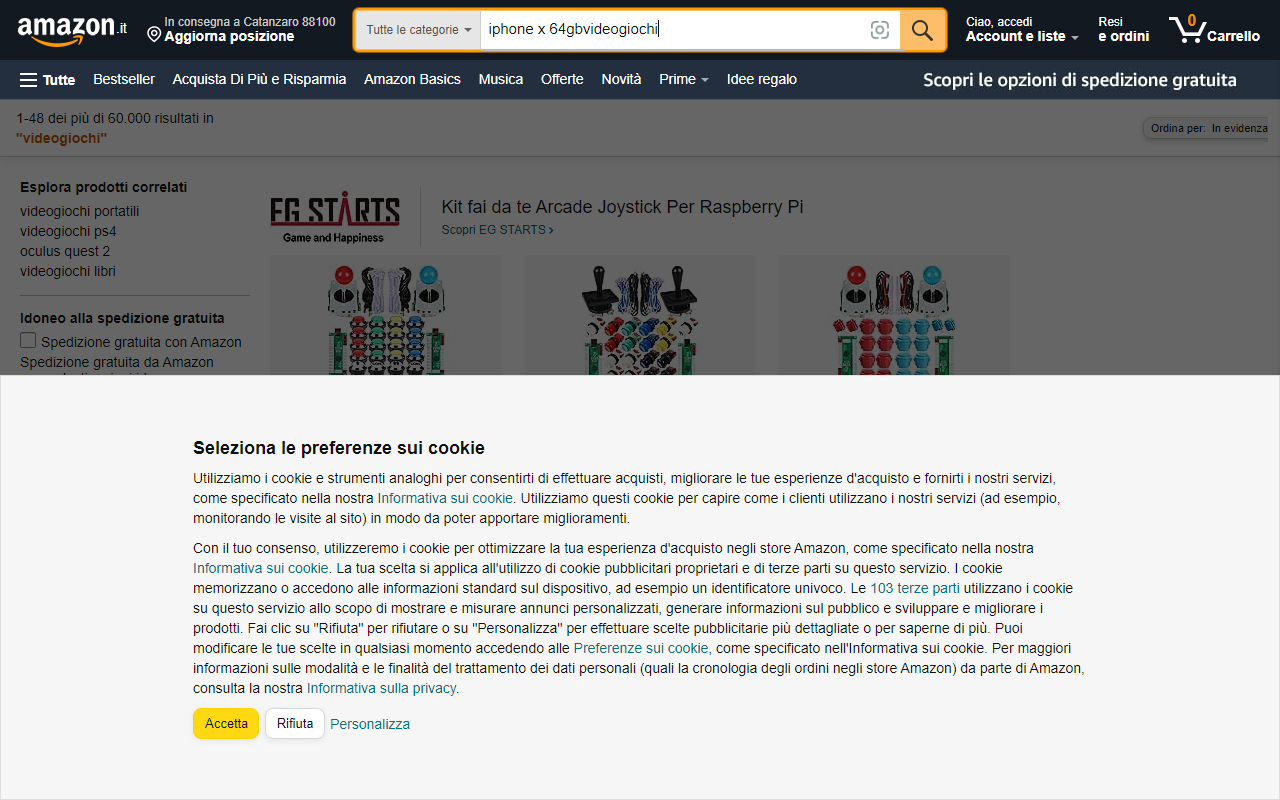
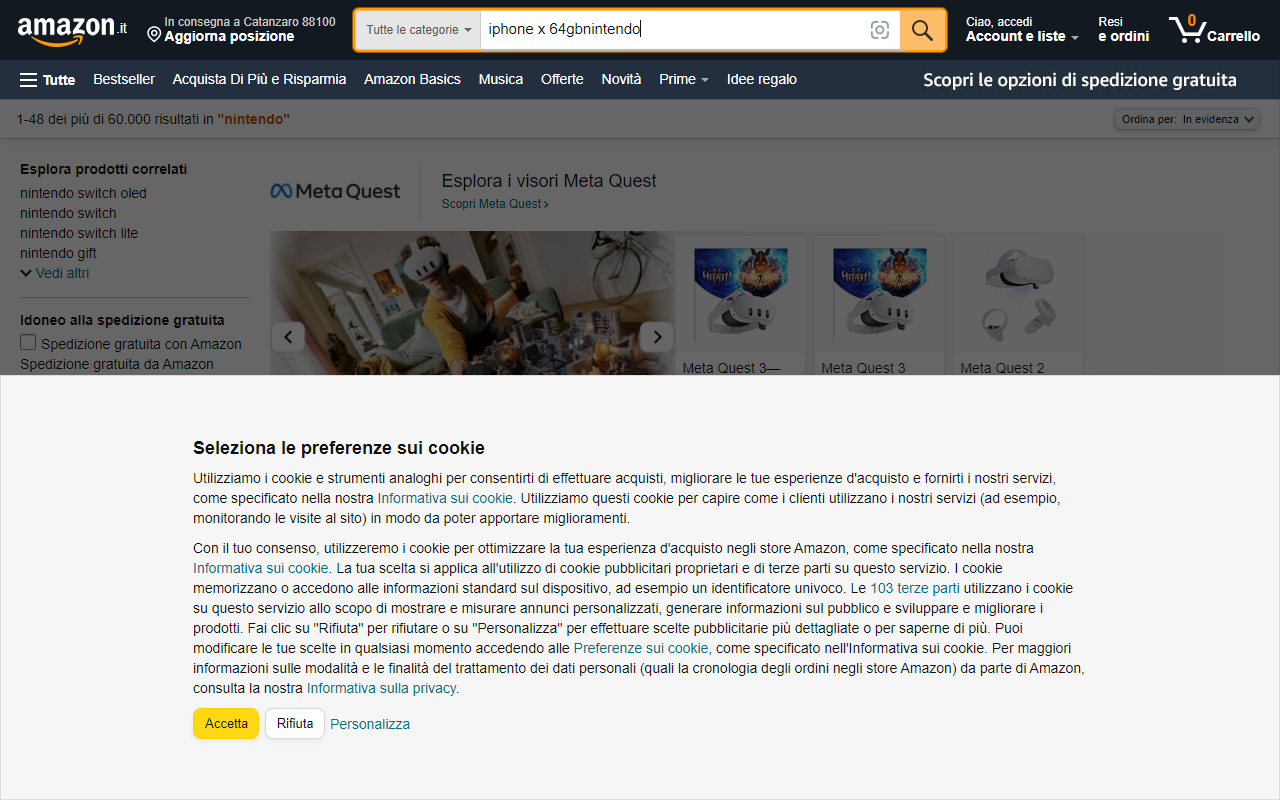
update

diff --git a/amazon.js b/amazon.js
@@ -1,11 +1,6 @@
 const puppeteer = require("puppeteer");
-const express = require("express");
 const WebSocket = require("ws");
 const wsPort = 8004;
-const unirest = require("unirest");
-const cheerio = require("cheerio");
-
-let shouldRun = true;
 
 const wss = new WebSocket.Server({ port: wsPort });
 wss.on("connection", (ws) => {
@@ -19,11 +14,10 @@ wss.on("connection", (ws) => {
   };
 });
 
-async function startScrape(typeSearch, mode, userId, password) {
+async function startScrape(typeSearch, mode, key) {
   // Lancio il browser false=vedo l'anteprima, "new"= stealth;
   const browser = await puppeteer.launch({ headless: mode });
   const page = await browser.newPage();
-  const fs = require("fs");
 
   // A seconda della ricerca apro o meno l'emulazione iPhone X;
   if (typeSearch == "desktop") {
@@ -48,99 +42,68 @@ async function startScrape(typeSearch, mode, userId, password) {
   console.log("Amazon.it scraping By Davide Balice.");
   console.log(" ");
   console.log(" ");
-  if (typeSearch == "desktop") {
-    console.log("login dektop started, wait...");
-  } else {
-    console.log("login mobile started, wait...");
-  }
-
-  // Vado alla pagina di Login;
-  
 
   // Avviso che siamo pronti a partire con la ricerca;
   console.clear();
-  console.log(" ");
-
-  if (typeSearch == "desktop") {
-    console.log("inzio ricerca desktop, attendere...");
-  } else {
-    console.log("inzio ricerca mobile, attendere...");
-  }
 
   page.setDefaultNavigationTimeout(2 * 60 * 1000);
 
-const key = "videogiochi";
-
-
-    // navigate to a website and set the viewport
-    await page.setViewport({ width: 1280, height: 800 });
-    await page.goto(`https://www.amazon.it/s?k=${key}&__mk_it_IT=%C3%85M%C3%85%C5%BD%C3%95%C3%91&crid=L8FRLM64UZ0S&sprefix=${key}%2Caps%2C125&ref=nb_sb_noss_1`, {
-      timeout: 3000000
-    });
-
-    // search and wait the product list
-    await page.type('#twotabsearchtextbox', 'iphone x 64gb');
-    await page.click('input.nav-input');
-    await page.waitForSelector('.s-result-item');
-
-    // create a screenshots
-    await page.screenshot({path: 'search-iphone-x.png'});
-
-    const products = await page.evaluate(() => {
-      const links = Array.from(document.querySelectorAll('.s-result-item'));
-      return links
-        .map(link => {
-          const nameElement = link.querySelector('.a-size-base-plus.a-color-base.a-text-normal');
-          const priceElement = link.querySelector('.a-price-whole');
-          const imageElement = link.querySelector('.s-image');
-    
-          if (nameElement && priceElement && imageElement) {
-            return {
-              name: nameElement.textContent.trim(),
-              url: link.querySelector('.a-link-normal.a-text-normal').href,
-              image: imageElement.src,
-              price: parseFloat(priceElement.textContent.replace(/[,.]/g, m => (m === ',' ? '.' : ''))),
-            };
-          } else {
-            return null;
-          }
-        })
-        .filter(product => product !== null)
-        .slice(0, 20);
-    });
-    
-
-    await products.forEach(product => {
-      console.log(`<div style='display:flex;border:1px solid #ddd;padding:10px;gap:10px;align:items:center'><img src='${product.image}' width='100'></div>`);
-      console.log("Name:", product.name);
-      console.log("URL:", product.url);
-      console.log(`<img src='${product.image}' width='200'>`);
-      console.log("Price:", product.price);
-      console.log("</div>");
-      console.log("-----------------------");
-    });
-/*
-    console.log(products.sort((a, b) => {
-      return a.price - b.price;
-    }));
-*/
-    // close the browser
-    await browser.close();
-
-
-
-
-  const htmlContent = await page.evaluate(
-    () => document.documentElement.outerHTML
+  // navigate to a website and set the viewport
+  await page.setViewport({ width: 1280, height: 800 });
+  await page.goto(
+    `https://www.amazon.it/s?k=${key}&__mk_it_IT=%C3%85M%C3%85%C5%BD%C3%95%C3%91&crid=L8FRLM64UZ0S&sprefix=${key}%2Caps%2C125&ref=nb_sb_noss_1`,
+    {
+      timeout: 3000000,
+    }
   );
 
-  //console.log(htmlContent);
+  // search and wait the product list
+  await page.type("#twotabsearchtextbox", "iphone x 64gb");
+  await page.click("input.nav-input");
+  await page.waitForSelector(".s-result-item");
+
+  // create a screenshots
+  await page.screenshot({ path: "search-iphone-x.png" });
+
+  const products = await page.evaluate(() => {
+    const links = Array.from(document.querySelectorAll(".s-result-item"));
+    return links
+      .map((link) => {
+        const nameElement = link.querySelector(
+          ".a-size-base-plus.a-color-base.a-text-normal"
+        );
+        const priceElement = link.querySelector(".a-price-whole");
+        const imageElement = link.querySelector(".s-image");
+
+        if (nameElement && priceElement && imageElement) {
+          return {
+            name: nameElement.textContent.trim(),
+            url: link.querySelector(".a-link-normal.a-text-normal").href,
+            image: imageElement.src,
+            price: parseFloat(
+              priceElement.textContent.replace(/[,.]/g, (m) =>
+                m === "," ? "." : ""
+              )
+            ),
+          };
+        } else {
+          return null;
+        }
+      })
+      .filter((product) => product !== null)
+      .slice(0, 20);
+  });
+
+  await products.forEach((product) => {
+    console.log(
+      `<a href="${product.url}" target="_blank" class="resultA"><div class="resultHotelRow"><img src="${product.image}" class="hotelImg"><div class="resultHotelText"><span><b>${product.name}</b><br /></span><span style="color:#333">€ ${product.price}</span></div></div></a>`
+    );
+  });
+
+  // close the browser
+  await browser.close();
 
   console.clear();
 }
 
-async function stopSearch() {
-  shouldRun = false;
-}
-
-module.exports = { startScrape, stopSearch };
+module.exports = { startScrape };

diff --git a/bookingcom.js b/bookingcom.js
@@ -1,10 +1,7 @@
 const puppeteer = require("puppeteer");
 const express = require("express");
 const WebSocket = require("ws");
-const app = express();
 const wsPort = 8003;
-const unirest = require("unirest");
-const cheerio = require("cheerio");
 
 const wss = new WebSocket.Server({ port: wsPort });
 wss.on("connection", (ws) => {
@@ -29,7 +26,6 @@ async function startScrape(
   // Lancio il browser false=vedo l'anteprima, "new"= stealth;
   const browser = await puppeteer.launch({ headless: mode });
   const page = await browser.newPage();
-  const fs = require("fs");
 
   // A seconda della ricerca apro o meno l'emulazione iPhone X;
   if (typeSearch == "desktop") {
@@ -55,12 +51,6 @@ async function startScrape(
   console.clear();
   console.log(" ");
 
-  if (typeSearch == "desktop") {
-    console.log("inzio ricerca desktop, attendere...");
-  } else {
-    console.log("inzio ricerca mobile, attendere...");
-  }
-
   page.setDefaultNavigationTimeout(2 * 60 * 1000);
 
   await page.goto(
@@ -70,7 +60,6 @@ async function startScrape(
   const htmlContent = await page.evaluate(
     () => document.documentElement.outerHTML
   );
-
   //console.log(htmlContent);
 
   //Numero massimo di pagine da visitare
@@ -87,16 +76,9 @@ async function startScrape(
 
     //Estrai data strutture ricettive
     const hotels = await page.$$('div[data-testid="property-card"]');
-    console.log(`There are: ${hotels.length} hotels.`);
 
-    if (hotels.length > 0) {
-      console.log(
-        'La pagina ha trovato almeno un elemento div[data-testid="property-card"].'
-      );
-    } else {
-      console.log(
-        'La pagina non ha trovato nessun elemento div[data-testid="property-card"].'
-      );
+    if (hotels.length === 0) {
+      console.log("La pagina non ha trovato nessun elemento ");
     }
 
     const hotelsList = [];
@@ -110,6 +92,11 @@ async function startScrape(
         'div[data-testid="title"]',
         (el) => el.innerText
       );
+      hotelDict["link"] = await hotel.$eval(
+        'div[data-testid="property-card"] a',
+        (el) => el.href
+      );
+
       try {
         hotelDict["price"] = await hotel.$eval(
           'span[data-testid="price-and-discounted-price"]',
@@ -133,19 +120,20 @@ async function startScrape(
     hotelsList.map((hotel, index) => {
       if (!allTitles.includes(hotel.hotel)) {
         allTitles.push(hotel.hotel);
-        console.log(`Hotel ${index + 1}:`);
-        console.log("Name:", hotel.hotel);
-        console.log("Price:", hotel.price);
-        console.log("Score:", hotel.score);
-        console.log("Image:", hotel.image);
-        console.log("--------------------------------");
+        const formattedPrice = hotel.price.toLocaleString("it-IT", {
+          style: "currency",
+          minimumFractionDigits: 2,
+        });
+
+        console.log(
+          `<a href="${hotel.link}" target="_blank" class="resultA"><div class="resultHotelRow"><img src="${hotel.image}" class="hotelImg"><div class="resultHotelText"><span><b>${hotel.hotel}</b><br /><span style="color:#333">rating: <b>${hotel.score}</b></span></span><span style="color:#333">${formattedPrice}</span></div></div></a>`
+        );
       }
     });
 
     const nextPageLink = await page.waitForSelector(
       'button[aria-label="pagina successiva"]'
     );
-    console.log("Pulsante trovato");
 
     if (nextPageLink && pageNum < maxPages - 1) {
       console.log(
@@ -169,7 +157,6 @@ async function startScrape(
   */
 
   console.log(`<div class="resultRowStop">Search finished</div>`);
-  // Aspetto 2 secondi e chiudo tutto;
 
   // Aspetto 2 secondi e chiudo tutto;
   await page.waitForTimeout(2000);

diff --git a/public/style.css b/public/style.css
@@ -161,3 +161,24 @@ button {
   font-weight: bold;
   padding-left: 0;
 }
+
+.hotelImg {
+  width: 150px;
+  border-radius: 6px;
+}
+
+.resultHotelRow {
+  border: 1px solid #ddd;
+  padding: 10px;
+  margin-bottom: 4px;
+  display: flex;
+  gap: 10px;
+}
+
+.resultHotelText {
+  padding: 10px;
+  margin-bottom: 4px;
+  display: flex;
+  flex-direction: column;
+  justify-content: space-between;
+}

diff --git a/routes.js b/routes.js
@@ -133,7 +133,7 @@ router.get("/amazon", (req, res) => {
 
 router.post("/amazon-desktop-search", (req, res) => {
   res.send("Start scraping, please wait.");
-  amazon.startScrape("desktop");
+  amazon.startScrape("desktop", "new", req.body.key);
 });
 
 module.exports = router;
